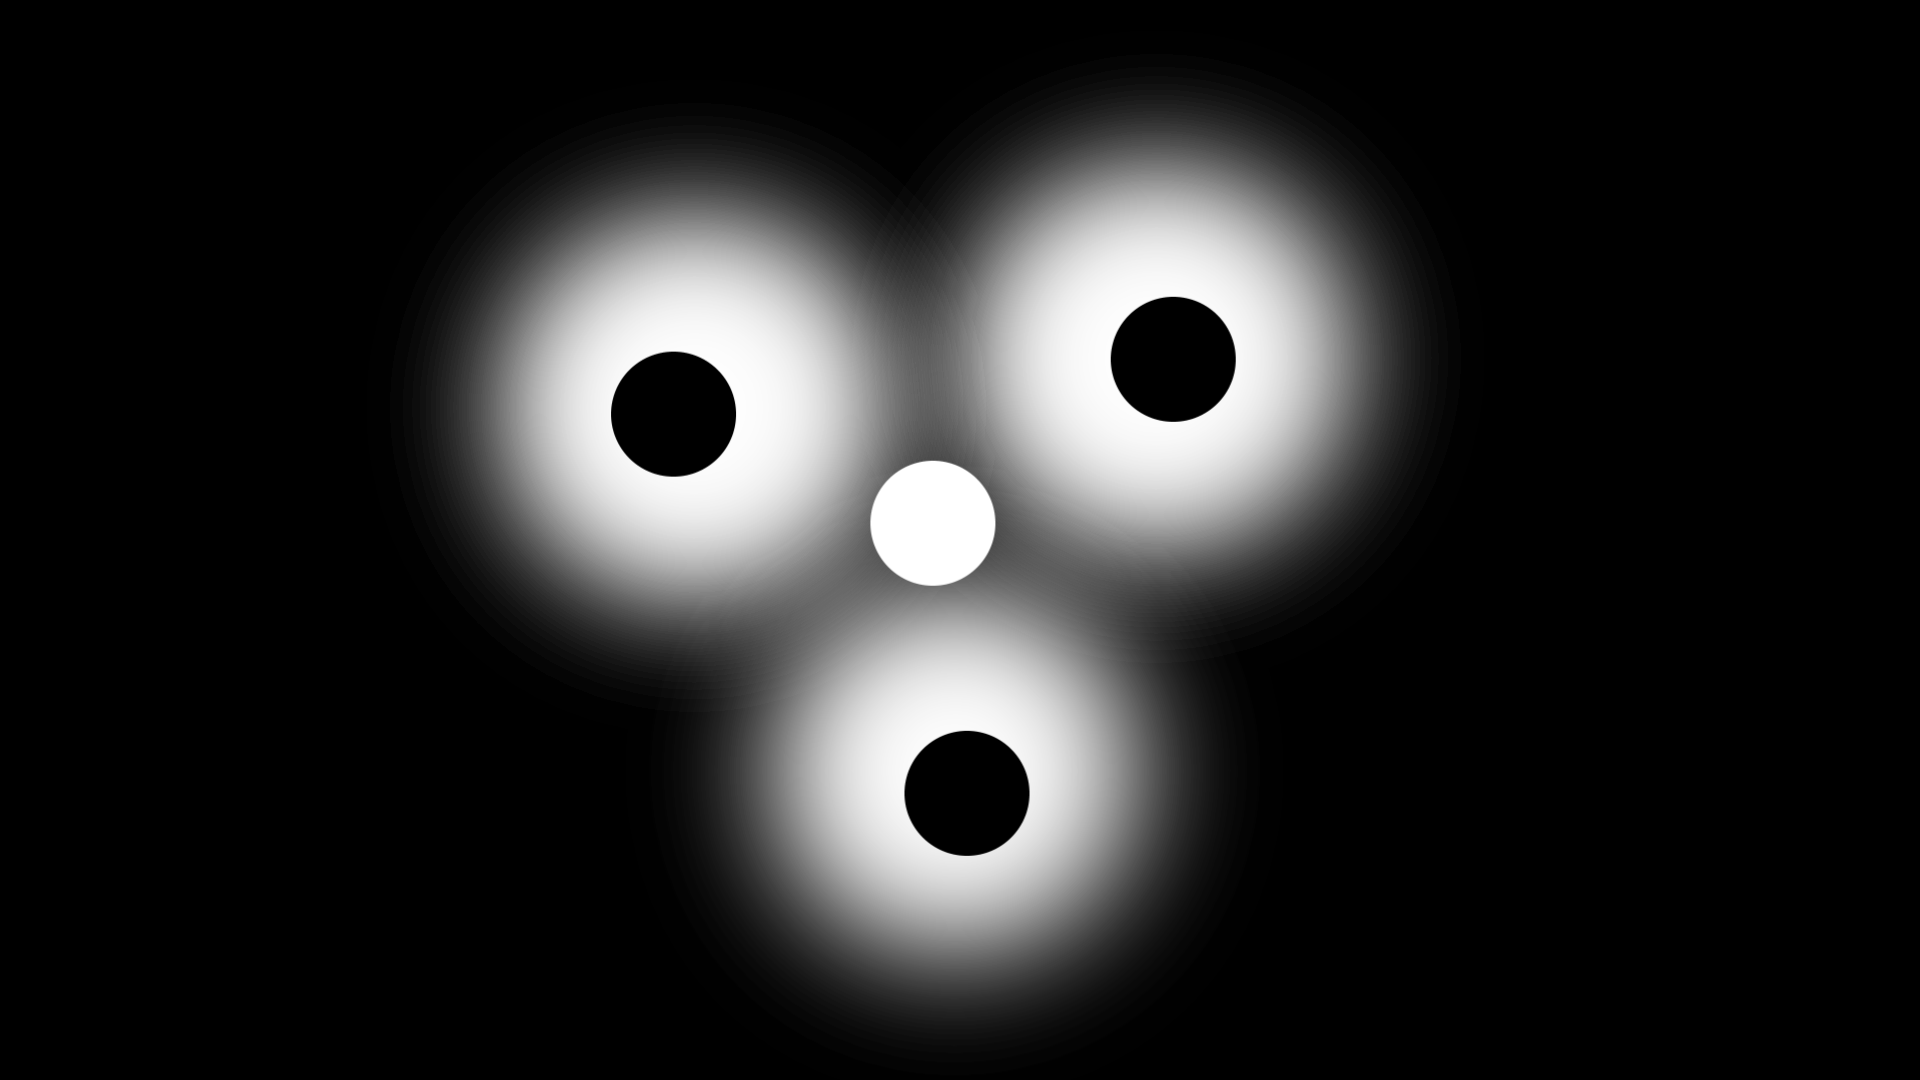
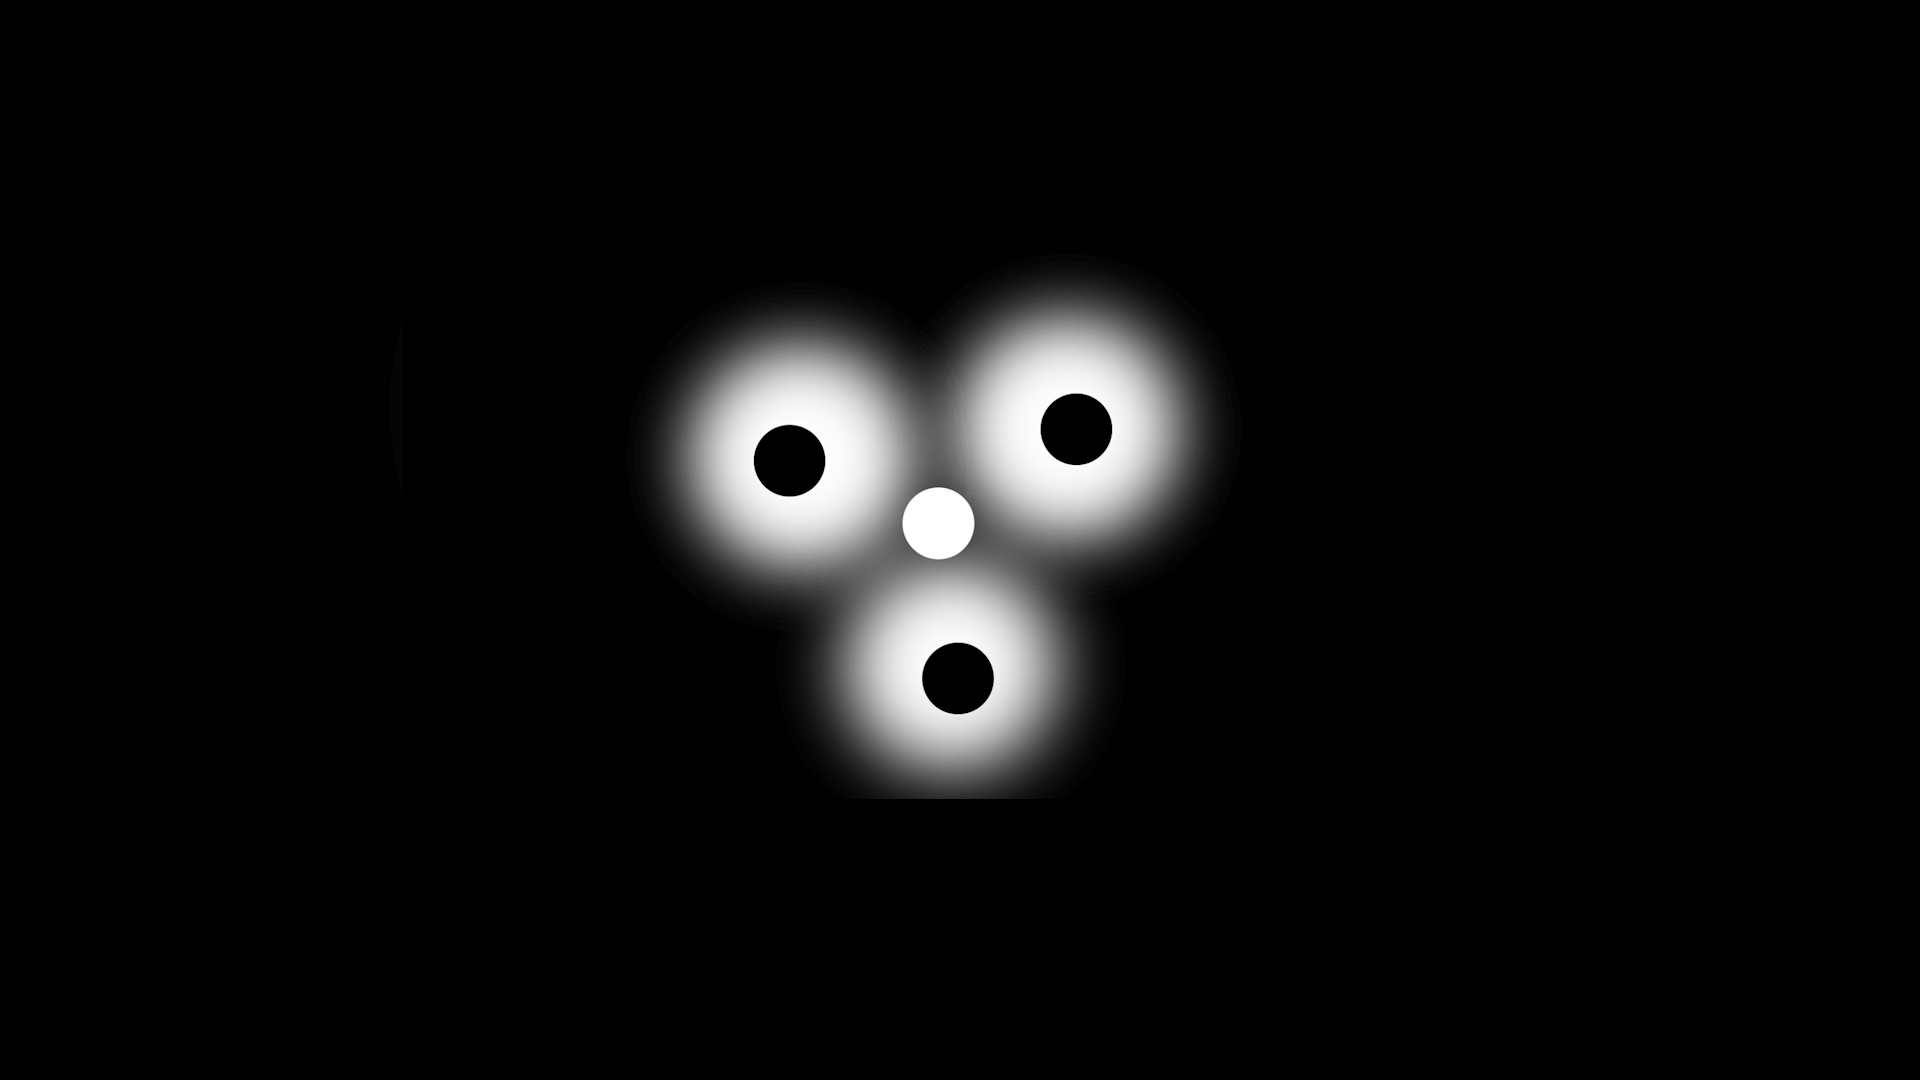
Tweaking for BlackGappery

Changed region(s): [[0.2188, 0.0917, 0.75, 0.9472]]

diff --git a/SKSSL/Utilities/Voronoi/PointDistributors/DistributorImage.cs b/SKSSL/Utilities/Voronoi/PointDistributors/DistributorImage.cs
@@ -196,8 +196,8 @@ public unsafe class DistributorImage : IPointDistributor
                 byte b = _pixels[pixelIndex * 4];
                 byte g = _pixels[pixelIndex * 4 + 1];
                 byte r = _pixels[pixelIndex * 4 + 2];
-                if (AllowBlackGaps && (r | g | b) == 0)
-                    continue;
+                //if (AllowBlackGaps && (r | g | b) == 0)
+                //    continue;
 
                 float density = densityPtr[pixelIndex];
 
@@ -219,7 +219,6 @@ public unsafe class DistributorImage : IPointDistributor
                 var x = rx * maxX;
                 var y = ry * maxY;
 
-                /*
                  // Old code for smoothing cells.
                  double dxCenter = x - centerX;
                 double dyCenter = y - centerY;
@@ -229,10 +228,8 @@ public unsafe class DistributorImage : IPointDistributor
 
                 // Smooth transition instead of a linear spacing jump.
                 double smoothRadius = radialDistance * radialDistance * (3.0 - 2.0 * radialDistance);
-                double cellSizeFactor =
-                    _centerCellSizeFactor + (_edgeCellSizeFactor - _centerCellSizeFactor) * smoothRadius;
-                double minimumDistance = baseSpacing * spacingFactor * cellSizeFactor;*/
-                double minimumDistance = baseSpacing * spacingFactor;
+                double cellSizeFactor = _centerCellSizeFactor + (_edgeCellSizeFactor - _centerCellSizeFactor) * smoothRadius;
+                double minimumDistance = baseSpacing * spacingFactor * cellSizeFactor;
                 double minimumDistanceSquared = minimumDistance * minimumDistance;
 
                 int gx = (int)(x / cellSize);
